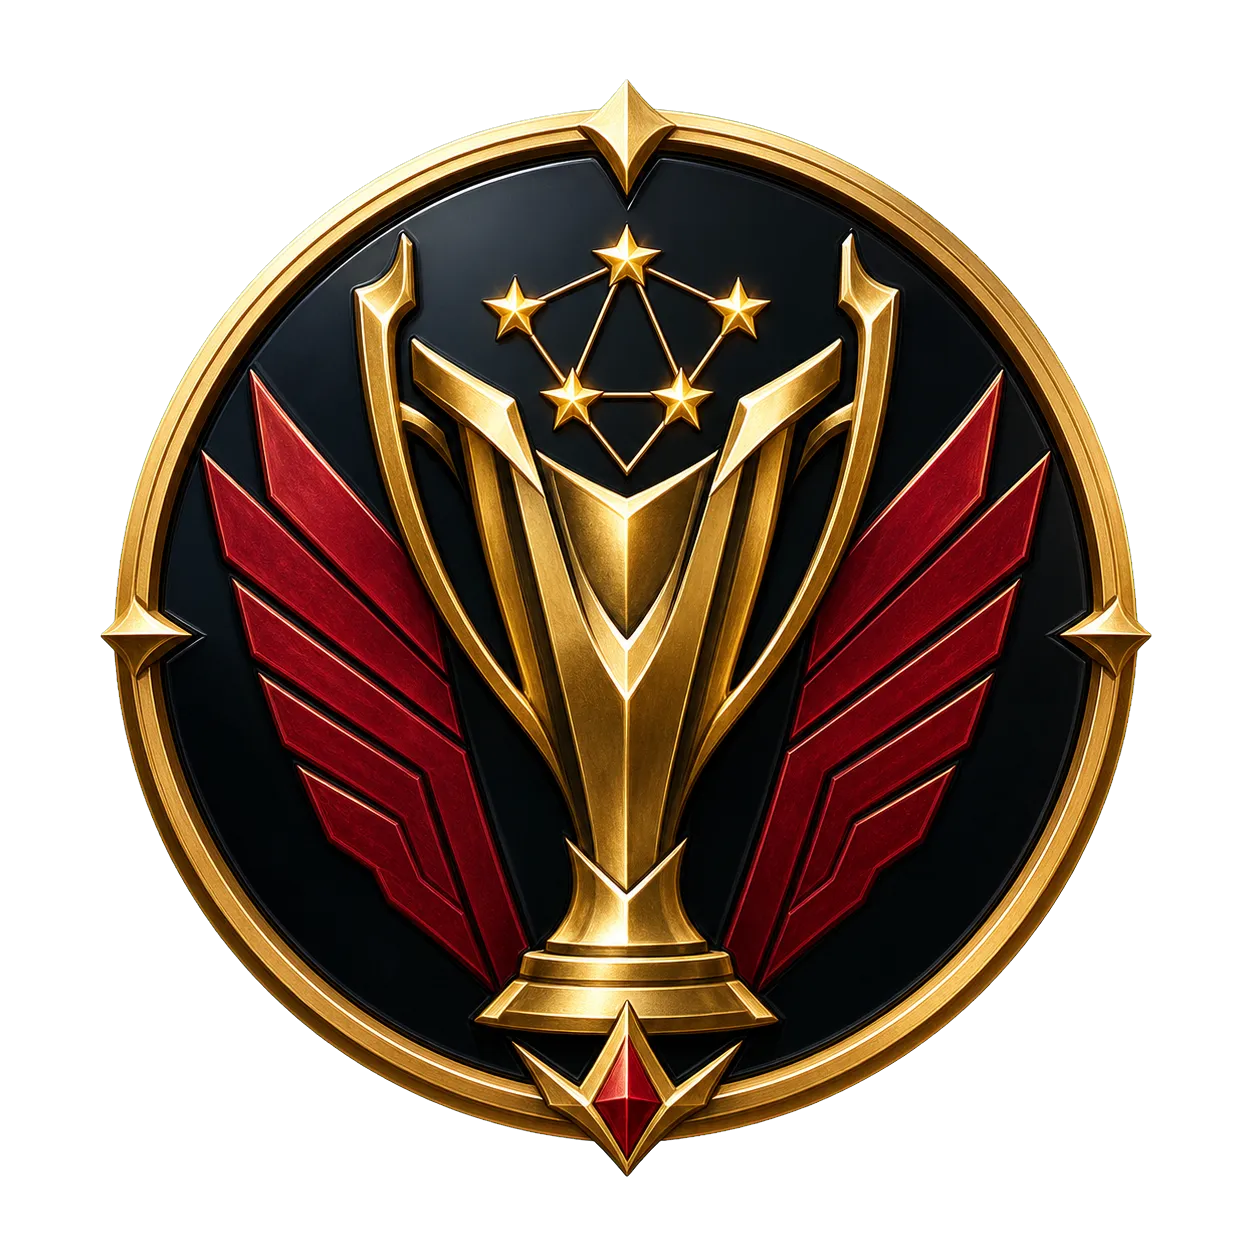
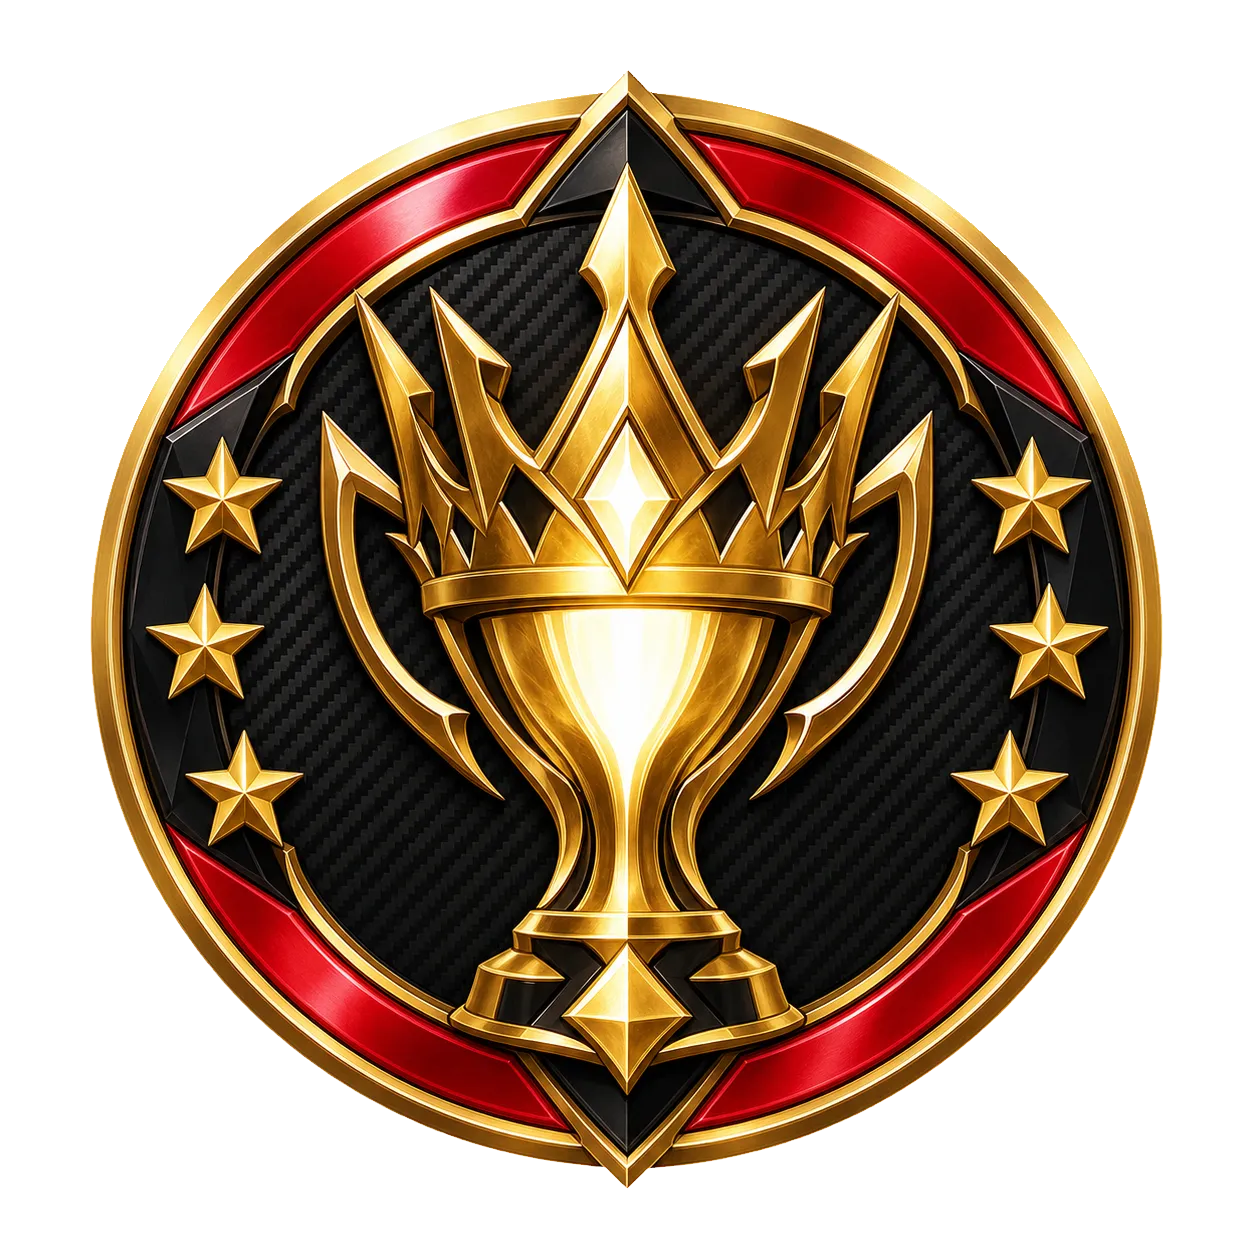
Remaster Daesanghyeok legendary showroom set

diff --git a/js/showroom-fx.js b/js/showroom-fx.js
@@ -1432,20 +1432,20 @@ const V11_LINE_RENDERERS=Object.freeze({
       v11PathMark(ctx,p,a,c=>{c.translate(0,-hop);c.fillStyle='#fff8ee';c.strokeStyle='#e9639b';c.lineWidth=1;c.beginPath();c.roundRect(-4,-3,3.2,6,1);c.roundRect(.8,-3,3.2,6,1);c.fill();c.stroke();});}
   },
   daesanghyeokLegacy(ctx,pts,acc,T,base){
-    v11Stroke(ctx,pts,'#031b1c',base.width*5.6,.64);
-    v11Stroke(ctx,pts,'#c9952e',base.width*2.65,.62);
-    v11Stroke(ctx,pts,'#35e0c1',base.width*1.45,.96);
-    v11Stroke(ctx,pts,'#f7f2c6',Math.max(1,base.width*.32),.9);
+    v11Stroke(ctx,pts,'#130307',base.width*5.6,.7);
+    v11Stroke(ctx,pts,'#c9952e',base.width*2.65,.66);
+    v11Stroke(ctx,pts,'#e2012d',base.width*1.45,.98);
+    v11Stroke(ctx,pts,'#fff8e8',Math.max(1,base.width*.32),.94);
     const total=acc.at(-1)||1;
-    for(let index=0;index<5;index++){
-      const distance=total*(.1+index*.2),p=atDistance(pts,acc,distance),a=v11MarkAngle(p),pulse=.86+.14*Math.sin(T/780+index*1.7);
+    for(let index=0;index<6;index++){
+      const distance=total*((index+.5)/6),p=atDistance(pts,acc,distance),a=v11MarkAngle(p),pulse=.86+.14*Math.sin(T/780+index*1.7);
       v11PathMark(ctx,p,a,c=>{c.save();c.scale(pulse,pulse);c.fillStyle=withAlpha(index===2?'#ffffff':'#ffd166',.92);c.shadowColor=index===2?'#ffffff':'#ffd166';c.shadowBlur=9;
         c.beginPath();for(let point=0;point<10;point++){const radius=point%2?2.2:5.2,angle=-Math.PI/2+point*Math.PI/5;c.lineTo(Math.cos(angle)*radius,Math.sin(angle)*radius);}c.closePath();c.fill();c.restore();});
     }
     const head=((T/3400)%1)*total;
     for(let trail=0;trail<10;trail++){
       const p=atDistance(pts,acc,(head-trail*11+total)%total),fade=1-trail/10;
-      ctx.save();ctx.fillStyle=withAlpha(trail<3?'#ffffff':'#8ffff0',fade*.84);ctx.shadowColor='#35e0c1';ctx.shadowBlur=13*fade;ctx.beginPath();ctx.ellipse(p.x,p.y,5.2*fade,1.7*fade,v11MarkAngle(p),0,TAU);ctx.fill();ctx.restore();
+      ctx.save();ctx.fillStyle=withAlpha(trail<3?'#ffffff':'#ff566f',fade*.84);ctx.shadowColor=trail<3?'#ffffff':'#e2012d';ctx.shadowBlur=13*fade;ctx.beginPath();ctx.ellipse(p.x,p.y,5.2*fade,1.7*fade,v11MarkAngle(p),0,TAU);ctx.fill();ctx.restore();
     }
     const crown=atDistance(pts,acc,(head+total*.08)%total),angle=v11MarkAngle(crown);
     v11PathMark(ctx,crown,angle,c=>{c.translate(0,-10);c.fillStyle=withAlpha('#ffd166',.94);c.strokeStyle=withAlpha('#fff4bd',.8);c.lineWidth=.9;c.shadowColor='#ffd166';c.shadowBlur=12;
@@ -1480,6 +1480,28 @@ function v11ProtectCenter(ctx,area){
   const g=ctx.createRadialGradient(area.left+w*.52,area.top+h*.5,0,area.left+w*.52,area.top+h*.5,Math.max(w,h)*.48);
   g.addColorStop(0,'rgba(4,8,14,.18)');g.addColorStop(.55,'rgba(4,8,14,.06)');g.addColorStop(1,'rgba(4,8,14,0)');
   ctx.fillStyle=g;ctx.fillRect(area.left,area.top,w,h);
+}
+
+export const LEGENDARY_AMBIENT_STAR_COUNT_V14=6;
+export function legendaryPerimeterStarsV14(area,time=0){
+  const width=Math.max(0,Number(area?.right)-Number(area?.left));
+  const height=Math.max(0,Number(area?.bottom)-Number(area?.top));
+  if(!width||!height)return Object.freeze([]);
+  const inset=Math.min(width*.12,height*.12,18);
+  const left=Number(area.left)+inset,right=Number(area.right)-inset;
+  const top=Number(area.top)+inset,bottom=Number(area.bottom)-inset;
+  const innerWidth=Math.max(1,right-left),innerHeight=Math.max(1,bottom-top);
+  const perimeter=2*(innerWidth+innerHeight);
+  const basePhase=(((Number(time)||0)*.045)%1+1)%1;
+  return Object.freeze(Array.from({length:LEGENDARY_AMBIENT_STAR_COUNT_V14},(_,index)=>{
+    const phase=(basePhase+index/LEGENDARY_AMBIENT_STAR_COUNT_V14)%1;
+    let distance=phase*perimeter,x=left,y=top,rotation=0;
+    if(distance<=innerWidth){x=left+distance;rotation=0;}
+    else if((distance-=innerWidth)<=innerHeight){x=right;y=top+distance;rotation=Math.PI/2;}
+    else if((distance-=innerHeight)<=innerWidth){x=right-distance;y=bottom;rotation=Math.PI;}
+    else{distance-=innerWidth;x=left;y=bottom-distance;rotation=-Math.PI/2;}
+    return Object.freeze({index,phase,x,y,rotation});
+  }));
 }
 const v11ArtCache=new Map();
 function v11Art(id,index){
@@ -1695,23 +1717,22 @@ const V11_AMBIENT_RENDERERS = Object.freeze({
     for(const side of [0,1]){
       const x=side?a.right:a.left,direction=side?-1:1;
       const beam=ctx.createLinearGradient(x,a.top,x+direction*w*.38,a.bottom);
-      beam.addColorStop(0,'rgba(255,209,102,.22)');beam.addColorStop(.55,'rgba(53,224,193,.08)');beam.addColorStop(1,'rgba(53,224,193,0)');
+      beam.addColorStop(0,'rgba(255,209,102,.24)');beam.addColorStop(.55,'rgba(226,1,45,.10)');beam.addColorStop(1,'rgba(226,1,45,0)');
       ctx.fillStyle=beam;ctx.beginPath();ctx.moveTo(x,a.top);ctx.lineTo(x+direction*w*.34,a.bottom);ctx.lineTo(x+direction*w*.08,a.bottom);ctx.closePath();ctx.fill();
     }
     const cx=a.left+w*.79,cy=a.top+h*.34;
-    ctx.save();ctx.translate(cx,cy);for(let ring=0;ring<5;ring++){ctx.rotate((ring%2?-.09:.12)*t);ctx.strokeStyle=withAlpha(ring%2?'#35e0c1':'#ffd166',.13+ring*.035);ctx.lineWidth=1+ring*.35;ctx.setLineDash(ring%2?[5,8]:[]);ctx.beginPath();ctx.ellipse(0,0,u*(.09+ring*.04),u*(.045+ring*.022),ring*.28,0,TAU);ctx.stroke();}ctx.restore();
+    ctx.save();ctx.translate(cx,cy);for(let ring=0;ring<5;ring++){ctx.rotate((ring%2?-.09:.12)*t);ctx.strokeStyle=withAlpha(ring%2?'#e2012d':'#ffd166',.13+ring*.035);ctx.lineWidth=1+ring*.35;ctx.setLineDash(ring%2?[5,8]:[]);ctx.beginPath();ctx.ellipse(0,0,u*(.09+ring*.04),u*(.045+ring*.022),ring*.28,0,TAU);ctx.stroke();}ctx.restore();
     for(let i=0;i<42;i++){
       const p=(rnd(i,1)+t*(.018+rnd(i,2)*.024))%1,edge=i%2?1:-1;
       const x=edge<0?a.left+w*(.03+.22*rnd(i,3)):a.right-w*(.03+.22*rnd(i,3));
       const y=a.bottom-p*h*.92,size=1.3+rnd(i,4)*3.2;
-      v11Particle(ctx,x+Math.sin(t*.65+i)*w*.018,y,size,i%5===0?'#fff7cf':i%2?'#35e0c1':'#ffd166',.16+.22*(1-p),i%3?'orb':'shard',t*.3+i);
+      v11Particle(ctx,x+Math.sin(t*.65+i)*w*.018,y,size,i%5===0?'#ffffff':i%2?'#e2012d':'#ffd166',.16+.22*(1-p),i%3?'orb':'shard',t*.3+i);
     }
-    for(let i=0;i<5;i++){
-      const angle=t*.2+i*TAU/5,r=u*(.15+(i%2)*.035),x=cx+Math.cos(angle)*r,y=cy+Math.sin(angle)*r*.58;
-      ctx.save();ctx.translate(x,y);ctx.rotate(angle+Math.PI/2);ctx.fillStyle=withAlpha('#ffd166',.78*pulse);ctx.shadowColor='#ffd166';ctx.shadowBlur=9;
+    for(const star of legendaryPerimeterStarsV14(a,t)){
+      ctx.save();ctx.translate(star.x,star.y);ctx.rotate(star.rotation+t*.12);ctx.fillStyle=withAlpha(star.index%2?'#fff5bd':'#ffd166',.78*pulse);ctx.shadowColor=star.index%2?'#ffffff':'#ffd166';ctx.shadowBlur=10;
       ctx.beginPath();for(let point=0;point<10;point++){const radius=point%2?2.2:5,starAngle=-Math.PI/2+point*Math.PI/5;ctx.lineTo(Math.cos(starAngle)*radius,Math.sin(starAngle)*radius);}ctx.closePath();ctx.fill();ctx.restore();
     }
-    const glow=ctx.createRadialGradient(cx,cy,0,cx,cy,u*.34);glow.addColorStop(0,withAlpha('#35e0c1',.13*pulse));glow.addColorStop(.48,withAlpha('#ffd166',.06));glow.addColorStop(1,'rgba(0,0,0,0)');ctx.fillStyle=glow;ctx.fillRect(a.left,a.top,w,h);
+    const glow=ctx.createRadialGradient(cx,cy,0,cx,cy,u*.34);glow.addColorStop(0,withAlpha('#e2012d',.13*pulse));glow.addColorStop(.48,withAlpha('#ffd166',.06));glow.addColorStop(1,'rgba(0,0,0,0)');ctx.fillStyle=glow;ctx.fillRect(a.left,a.top,w,h);
   },
 });
 function drawV11Ambient(ctx, area, id, T, small) {

diff --git a/css/showroom-card-themes.css b/css/showroom-card-themes.css
@@ -1,7 +1,8 @@
 .cmp-profile[data-card-theme],.sr-profile-head[data-card-theme]{position:relative;isolation:isolate;box-sizing:border-box;overflow:hidden;padding:12px 14px!important;border:0!important;border-radius:12px}
 .cmp-profile>.v4-card-theme-frame,.sr-profile-head>.v4-card-theme-frame{position:absolute;z-index:0;inset:0;width:100%;height:100%;display:block;object-fit:cover;pointer-events:none;border-radius:12px;filter:drop-shadow(0 5px 10px #000b)}
-.cmp-profile[data-card-theme]>:not(.v4-card-theme-frame),.sr-profile-head[data-card-theme]>:not(.v4-card-theme-frame){position:relative;z-index:2}
-.cmp-profile>.v14-card-theme-logo,.sr-profile-head>.v14-card-theme-logo{position:absolute;z-index:1;left:50%;top:8px;width:52px;height:auto;transform:translateX(-50%);filter:brightness(0) invert(85%) sepia(57%) saturate(553%) hue-rotate(351deg) brightness(103%) contrast(93%) drop-shadow(0 2px 4px #000b);pointer-events:none;opacity:.9}
+.cmp-profile[data-card-theme]>:not(.v4-card-theme-frame):not(.v14-card-theme-logo),.sr-profile-head[data-card-theme]>:not(.v4-card-theme-frame):not(.v14-card-theme-logo){position:relative;z-index:2}
+.cmp-profile>.v14-card-theme-logo,.sr-profile-head>.v14-card-theme-logo{position:absolute;z-index:1;left:50%;top:8px;width:52px;height:26px;display:block;transform:translateX(-50%);-webkit-mask:var(--v14-card-logo) center/contain no-repeat;mask:var(--v14-card-logo) center/contain no-repeat;filter:drop-shadow(0 2px 4px #000b) drop-shadow(0 0 5px #e2012d66);pointer-events:none;opacity:.94}
+.v14-card-theme-logo.t1-logo-red{background:#e2012d}
 [data-card-theme="ct8_legendary_frozen_throne"]{--ct-accent:#8bdcff;--ct-panel:rgba(5,18,32,.72);--ct-edge:rgba(139,220,255,.2);--ct-shadow:#49bfff55;--ct-frame:url("../assets/showroom-v8/card_theme/panels/frozen_panel_frame.png")}
 [data-card-theme="ct8_legendary_nether_sanctum"]{--ct-accent:#c09aff;--ct-panel:rgba(18,10,27,.74);--ct-edge:rgba(181,140,255,.2);--ct-shadow:#73ff9250;--ct-frame:url("../assets/showroom-v8/card_theme/panels/nether_panel_frame.png")}
 [data-card-theme^="ct8_u_"]{--ct-accent:#e7edf5;--ct-panel:rgba(10,15,22,.78);--ct-edge:#ffffff24;--ct-shadow:#ffffff20}
@@ -60,4 +61,4 @@ body .cmp-profile[data-card-theme] .cmp-markers .mk,body .sr-profile-head[data-c
 .v4-card-preview-identity{left:20%;top:17%;text-align:left}.v4-card-preview-message{left:20%;bottom:18%;opacity:.8}.v4-card-preview-trophies{right:7%;top:16%;color:var(--ct-accent)}
 .v4-card-preview-stats{right:5%;bottom:14%;display:flex;gap:3px;width:42%}.v4-card-preview-stats i{flex:1;padding:4px 1px;border:1px solid var(--ct-edge);border-radius:3px;background:var(--ct-panel);font-style:normal;text-align:center}
 @media(max-width:1180px){.cmp-profile[data-card-theme] .cmp-trophies{position:relative!important;inset:auto!important;width:100%;height:54px;grid-template-columns:repeat(7,24px);grid-template-rows:repeat(2,24px);gap:3px}.cmp-profile[data-card-theme] .cmp-trophies .v3-trophy-image{width:24px!important;height:24px!important}}
-@media(max-width:700px){.sr-profile-head[data-card-theme]{padding:10px!important}.sr-profile-head[data-card-theme] .sr-trophy-preview{position:relative!important;inset:auto!important;width:100%;grid-template-columns:repeat(7,24px);grid-template-rows:repeat(2,24px);gap:3px;height:54px}.sr-profile-head[data-card-theme] .sr-trophy-preview .v3-trophy-image{width:24px!important;height:24px!important}}
+@media(max-width:700px){.sr-profile-head[data-card-theme]{padding:10px!important}.sr-profile-head[data-card-theme] .sr-trophy-preview{position:relative!important;inset:auto!important;width:100%;grid-template-columns:repeat(7,24px);grid-template-rows:repeat(2,24px);gap:3px;height:54px}.sr-profile-head[data-card-theme] .sr-trophy-preview .v3-trophy-image{width:24px!important;height:24px!important}.sr-profile-head[data-card-theme="ct14_l_daesanghyeok_goat"]{border:1px solid #e2012d66!important;box-shadow:inset 0 0 0 1px #ffd16638,0 6px 16px #000a}.sr-profile-head[data-card-theme="ct14_l_daesanghyeok_goat"]>.v4-card-theme-frame{object-position:left center;opacity:.86}.sr-profile-head[data-card-theme="ct14_l_daesanghyeok_goat"]>.v14-card-theme-logo{left:auto;right:12px;top:8px;transform:none;width:42px;height:21px;z-index:3}.sr-profile-head[data-card-theme="ct14_l_daesanghyeok_goat"] .sr-profile-copy,.sr-profile-head[data-card-theme="ct14_l_daesanghyeok_goat"] .sr-message-preview{text-shadow:0 1px 2px #000,0 0 8px #000}}

diff --git a/js/showroom-fullsets-v14.js b/js/showroom-fullsets-v14.js
@@ -15,29 +15,29 @@ export const DAESANGHYEOK_SET_ITEM_IDS=Object.freeze([
 ]);
 
 export const SHOWROOM_FULLSET_ITEMS_V14=Object.freeze([
-  item('graph_skin','gs14_l_daesanghyeok_stage','대상혁의 전설 무대',`${ROOT}/graph_skin.webp`,'청록과 금빛의 우승 무대가 기록 영역을 감싸는 전설 그래프 스킨',{
+  item('graph_skin','gs14_l_daesanghyeok_stage','빛상혁의 불멸 전당',`${ROOT}/graph_skin.webp`,'검정·T1 레드·금빛의 우승 전당과 정확히 여섯 별이 기록 영역을 감싸는 전설 그래프 스킨',{
     plannedPrice:3900,
     safeArea:Object.freeze({x:.12,y:.15,width:.76,height:.70}),
   }),
-  item('card_theme','ct14_l_daesanghyeok_goat','대상혁의 GOAT 기록관',`${ROOT}/card_theme.webp`,'다섯 개의 별과 왕조의 금빛 문장이 헤더를 감싸는 전설 카드 테마',{
+  item('card_theme','ct14_l_daesanghyeok_goat','빛상혁의 전설 기록관',`${ROOT}/card_theme.webp`,'검정·T1 레드·금빛 프레임과 여섯 우승 별이 헤더 정보를 선명하게 분리하는 전설 카드 테마',{
     cardAssets:Object.freeze({header:`${ROOT}/card_theme.webp`}),
     logoAsset:`${ROOT}/t1_logo.svg`,
     cssTheme:Object.freeze({
-      accent:'#f6d365',panel:'rgba(5,20,24,.84)',edge:'rgba(246,211,101,.46)',shadow:'rgba(0,229,170,.34)',
+      accent:'#ffd166',panel:'rgba(10,7,8,.84)',edge:'rgba(226,1,45,.48)',shadow:'rgba(255,209,102,.32)',
     }),
     typography:Object.freeze({effect:'legendary'}),
   }),
-  item('ambient_effect','ae14_l_daesanghyeok_dynasty','대상혁의 불멸 왕조',null,'청록 별빛과 금빛 우승 고리, 다섯 왕관의 잔광이 가장자리를 순환하는 전설 공간 연출',{
+  item('ambient_effect','ae14_l_daesanghyeok_dynasty','빛상혁의 육성 광휘',null,'정확히 여섯 개의 금빛 우승 별과 백색·적색 광휘가 그래프 전체 외곽을 순회하는 전설 공간 연출',{
     renderSpec:Object.freeze({fx:'ae14_l_daesanghyeok_dynasty',motionTier:'legendary',layers:6,centerProtection:.72}),
   }),
-  item('line_style','ls14_l_daesanghyeok_legacy','대상혁의 불멸 궤적',null,'청록 주선 위로 금빛 왕관과 다섯 개의 우승 별이 이어지고 백색 섬광이 질주하는 전설 그래프 선',{
-    renderSpec:Object.freeze({fx:'ls14_l_daesanghyeok_legacy',width:3.4,tension:.12,color:'#35e0c1',colorMode:'fixed',motionTier:'legendary',layers:6}),
+  item('line_style','ls14_l_daesanghyeok_legacy','빛상혁의 불멸 궤적',null,'T1 레드 주선과 백색 코어 위로 여섯 우승 별과 금빛 왕관 섬광이 질주하는 전설 그래프 선',{
+    renderSpec:Object.freeze({fx:'ls14_l_daesanghyeok_legacy',width:3.4,tension:.12,color:'#e2012d',colorMode:'fixed',motionTier:'legendary',layers:6}),
   }),
-  item('profile_emoji','pe14_l_daesanghyeok','대상혁',`${ROOT}/portrait_full.webp`,'청록과 금빛 무대 조명 아래 선 전설의 전신·반신 초상',{
+  item('profile_emoji','pe14_l_daesanghyeok','빛상혁',`${ROOT}/portrait_full.webp`,'이상혁의 얼굴 특징을 보존한 4등신 전신과 동일 인물 상반신, 여섯 우승 별이 빛나는 전설 초상',{
     portraitAssets:Object.freeze({full:`${ROOT}/portrait_full.webp`,bust:`${ROOT}/portrait_bust.webp`}),
   }),
-  item('emoji_border','eb14_l_daesanghyeok_hall','대상혁의 명예의 전당',`${ROOT}/portrait_frame.webp`,'다섯 별과 금빛 월계관, 청록 보석이 초상을 감싸는 전설 프레임'),
-  item('point_marker','pm14_l_daesanghyeok_crown','대상혁의 왕관',`${ROOT}/marker_high.webp`,'최고점은 빛나는 금빛 왕관, 최저점은 꺼지지 않은 청록 왕관으로 표시하는 전설 마커',{
+  item('emoji_border','eb14_l_daesanghyeok_hall','빛상혁의 명예 전당',`${ROOT}/portrait_frame.webp`,'검정 탄소섬유와 T1 레드, 금빛 장식이 초상을 침범하지 않고 감싸는 전설 프레임'),
+  item('point_marker','pm14_l_daesanghyeok_crown','빛상혁의 절정 인장',`${ROOT}/marker_high.webp`,'최고점은 여섯 별의 왕관 트로피, 최저점은 여섯 별의 복원 방패로 구분하는 전설 마커',{
     markerAssets:Object.freeze({high:`${ROOT}/marker_high.webp`,low:`${ROOT}/marker_low.webp`}),
   }),
 ]);

diff --git a/css/style.css b/css/style.css
@@ -552,6 +552,22 @@ input  { font-family: inherit; outline: none; }
 .v2-profile-showcase.has-frame.v2-portrait-full .v2-profile-art>.v3-profile-emoji[data-profile-id^="pe13_m_"]{transform:scale(.95)}
 .v2-profile-showcase.has-frame.v2-portrait-bust .v2-profile-art>.v3-profile-emoji{transform:scale(1.42) translateY(17%)}
 .v2-profile-compact .v2-profile-art>.v3-profile-emoji[data-portrait-mode="bust"]{transform:scale(1.42) translateY(16%);transform-origin:50% 28%}
+.v14-daesanghyeok-profile{--v14-star:#ffd166;--v14-star-cool:#e9fffb}
+.v14-daesanghyeok-profile .v2-profile-art{animation:v14DaesanghyeokFloat 5.8s ease-in-out infinite;will-change:translate}
+.v14-daesanghyeok-profile .v3-profile-emoji{animation:v14DaesanghyeokBreathe 4.8s ease-in-out infinite;will-change:scale}
+.v14-daesanghyeok-profile::before,.v14-daesanghyeok-profile::after{content:'';position:absolute;z-index:3;inset:-5%;border-radius:50%;pointer-events:none;opacity:.48;will-change:transform,opacity}
+.v14-daesanghyeok-profile::before{background:radial-gradient(circle at 50% 1%,var(--v14-star) 0 2px,transparent 3px),radial-gradient(circle at 92% 72%,var(--v14-star-cool) 0 1.5px,transparent 2.8px),radial-gradient(circle at 9% 70%,var(--v14-star) 0 1.5px,transparent 2.8px);animation:v14DaesanghyeokStarOrbit 10.5s linear infinite}
+.v14-daesanghyeok-profile::after{inset:4%;background:radial-gradient(circle at 50% 0,var(--v14-star-cool) 0 1.5px,transparent 2.8px),radial-gradient(circle at 96% 58%,var(--v14-star) 0 1.3px,transparent 2.5px),radial-gradient(circle at 7% 60%,var(--v14-star-cool) 0 1.3px,transparent 2.5px);animation:v14DaesanghyeokStarOrbitReverse 7.8s linear infinite;opacity:.38}
+.v14-daesanghyeok-profile:hover .v2-profile-art{animation-duration:3.7s}
+.v14-daesanghyeok-profile:hover .v3-profile-emoji{animation-name:v14DaesanghyeokBreatheHover;animation-duration:2.9s;filter:drop-shadow(0 3px 5px #000b) drop-shadow(0 0 8px #ffd16670)}
+.v14-daesanghyeok-profile:hover::before,.v14-daesanghyeok-profile:hover::after{opacity:.82;animation-duration:5.2s}
+.v2-profile-compact.v14-daesanghyeok-profile::before,.v2-profile-compact.v14-daesanghyeok-profile::after{opacity:.3}
+@keyframes v14DaesanghyeokFloat{0%,100%{translate:0 0}50%{translate:0 -2.2%}}
+@keyframes v14DaesanghyeokBreathe{0%,100%{scale:1}50%{scale:1.018}}
+@keyframes v14DaesanghyeokBreatheHover{0%,100%{scale:1.008}50%{scale:1.04}}
+@keyframes v14DaesanghyeokStarOrbit{to{transform:rotate(360deg)}}
+@keyframes v14DaesanghyeokStarOrbitReverse{to{transform:rotate(-360deg)}}
+@media(prefers-reduced-motion:reduce){.v14-daesanghyeok-profile .v2-profile-art,.v14-daesanghyeok-profile .v3-profile-emoji,.v14-daesanghyeok-profile::before,.v14-daesanghyeok-profile::after{animation:none!important;transition:none!important;translate:0!important;scale:1!important}.v14-daesanghyeok-profile::before,.v14-daesanghyeok-profile::after{transform:none!important;opacity:.42!important}}
 .v3-profile-base,.v3-profile-emoji{position:relative;z-index:1;display:block;object-fit:contain;filter:drop-shadow(0 2px 3px #0009)}
 .v9-marker-pair{display:flex;align-items:center;justify-content:center;gap:2px;width:74px;height:48px}
 .v9-marker-pair .v3-marker-image{width:36px;height:36px;object-fit:contain;filter:drop-shadow(0 2px 3px #000a)}

diff --git a/js/showroom-v2.js b/js/showroom-v2.js
@@ -166,7 +166,8 @@ export function profileVisualV2(raw,size=48,fallbackEmoji='🙂',mode='compact')
   const loadout=normalizeLoadoutV2(raw);
   const displayMode=mode==='showcase'?'showcase':'compact';
   const portraitMode=displayMode==='compact'?'bust':loadout.portraitMode;
-  return `<span class="v2-profile v2-profile-${displayMode} v2-portrait-${portraitMode} ${loadout.emoji_border?'has-frame':''}" data-portrait-mode="${portraitMode}" style="width:${size}px;height:${size}px">${renderEmojiBorderV2(loadout.emoji_border,size+14)}<span class="v2-profile-art">${renderProfileEmojiV2(loadout.profile_emoji,size-8,fallbackEmoji,portraitMode)}</span></span>`;
+  const profileClass=loadout.profile_emoji==='pe14_l_daesanghyeok'?'v14-daesanghyeok-profile':'';
+  return `<span class="v2-profile v2-profile-${displayMode} v2-portrait-${portraitMode} ${profileClass} ${loadout.emoji_border?'has-frame':''}" data-portrait-mode="${portraitMode}" data-profile-id="${loadout.profile_emoji||''}" style="width:${size}px;height:${size}px">${renderEmojiBorderV2(loadout.emoji_border,size+14)}<span class="v2-profile-art">${renderProfileEmojiV2(loadout.profile_emoji,size-8,fallbackEmoji,portraitMode)}</span></span>`;
 }
 export const profileVisualForUserV2=(user,size=48,loadout=user?.showroomLoadoutV2)=>profileVisualV2(loadout,size);
 export const profileShowcaseForUserV2=(user,size=116,loadout=user?.showroomLoadoutV2)=>profileVisualV2(loadout,size,'🙂','showcase');
@@ -237,8 +238,9 @@ export function applyCardV2(card,raw){
   frame.src=theme.cardAssets?.header||theme.asset;frame.alt='';frame.setAttribute('aria-hidden','true');
   profile.prepend(frame);
   if(theme.logoAsset){
-    const logo=document.createElement('img');
-    logo.className='v14-card-theme-logo';logo.src=theme.logoAsset;logo.alt='T1';
+    const logo=document.createElement('span');
+    logo.className='v14-card-theme-logo t1-logo-red';logo.setAttribute('role','img');logo.setAttribute('aria-label','T1');
+    logo.style?.setProperty?.('--v14-card-logo',`url("${theme.logoAsset}")`);
     profile.prepend(logo);
   }
   profile.dataset.cardPreset=theme.id;

diff --git a/js/showroom-taxonomy.js b/js/showroom-taxonomy.js
@@ -149,6 +149,14 @@ export function enrichShowroomItem(item) {
   return Object.freeze({ ...item, ...showroomTaxonomyFor(item) });
 }
 
+const SHOWROOM_SET_RARITY_ORDER=Object.freeze([
+  'artifact','legendary','transcendent','mythic','epic','rare','uncommon','common',
+]);
+const showroomSetRarityRank=rarity=>{
+  const rank=SHOWROOM_SET_RARITY_ORDER.indexOf(rarity);
+  return rank<0?SHOWROOM_SET_RARITY_ORDER.length:rank;
+};
+
 export function showroomFullSets(catalog) {
   return Object.values(SHOWROOM_MOTIFS)
     .filter(entry => entry.fullSet)
@@ -164,6 +172,9 @@ export function showroomFullSets(catalog) {
         const expectedId=approved[index];
         return [category,categoryMap[category].find(item=>item.id===expectedId)||categoryMap[category][0]||null];
       }));
-      return Object.freeze({ ...entry, items:Object.freeze(items), categoryMap:Object.freeze(categoryMap), presetMap:Object.freeze(presetMap), filled, total:SHOWROOM_FULL_SET_CATEGORIES.length });
-    });
+      const rarity=Object.values(presetMap).filter(Boolean)
+        .map(item=>item.rarity).sort((a,b)=>showroomSetRarityRank(a)-showroomSetRarityRank(b))[0]||'common';
+      return Object.freeze({ ...entry, rarity, items:Object.freeze(items), categoryMap:Object.freeze(categoryMap), presetMap:Object.freeze(presetMap), filled, total:SHOWROOM_FULL_SET_CATEGORIES.length });
+    })
+    .sort((a,b)=>showroomSetRarityRank(a.rarity)-showroomSetRarityRank(b.rarity));
 }

diff --git a/sw.js b/sw.js
@@ -1,4 +1,4 @@
-const CACHE = 'weight-v138-daesanghyeok-legendary';
+const CACHE = 'weight-v139-daesanghyeok-legendary-remaster';
 const ASSETS = [
   './index.html', './dashboard.html', './input.html', './import.html',
   './achievements.html', './compare.html', './dressroom.html', './diet.html', './shop.html', './guide.html', './visual-lab.html',
